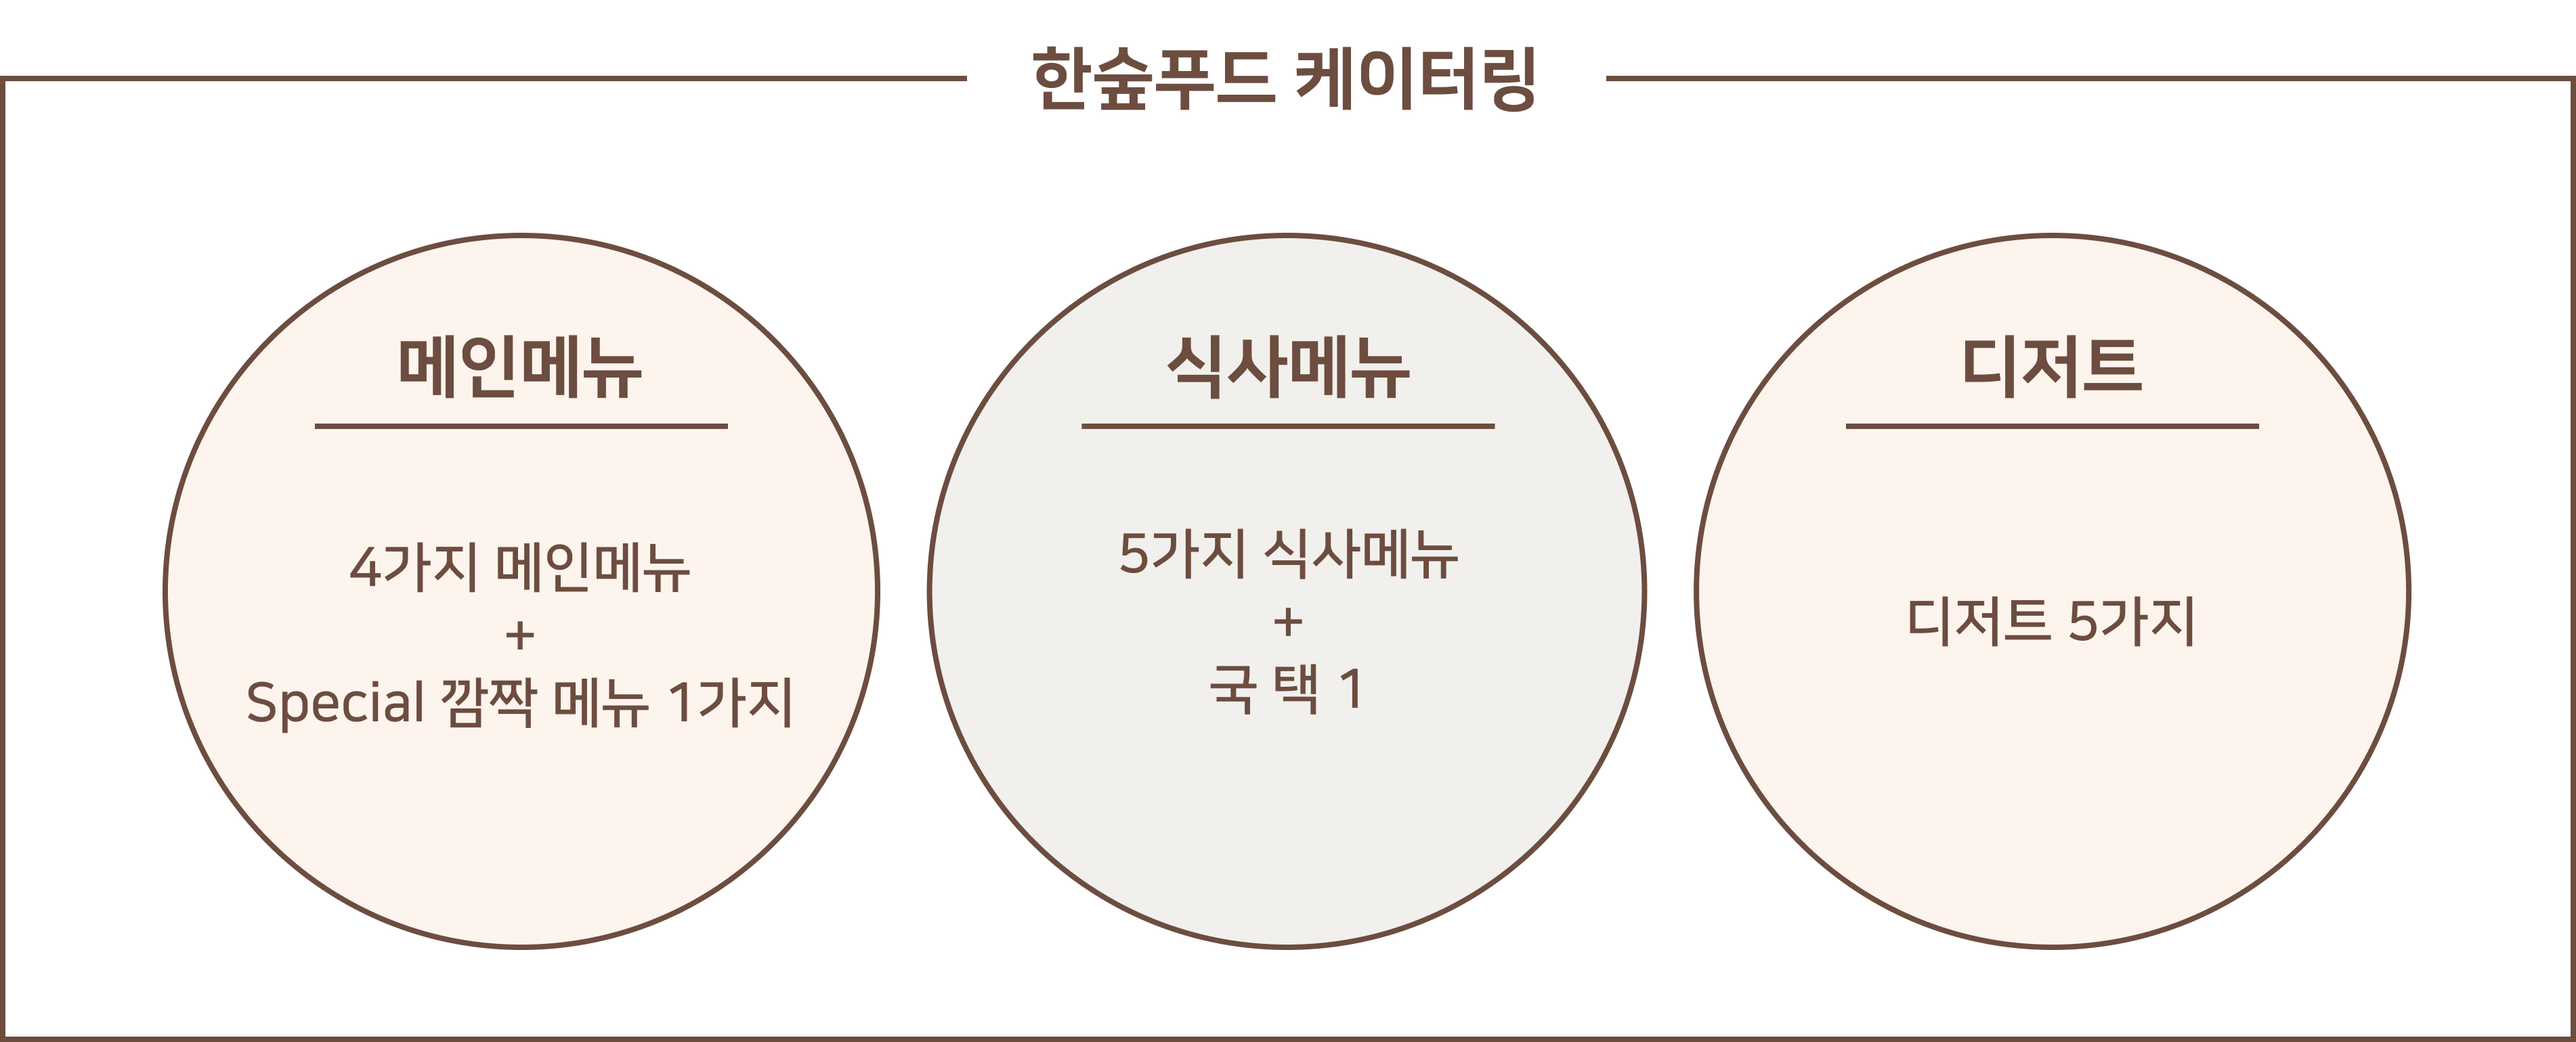
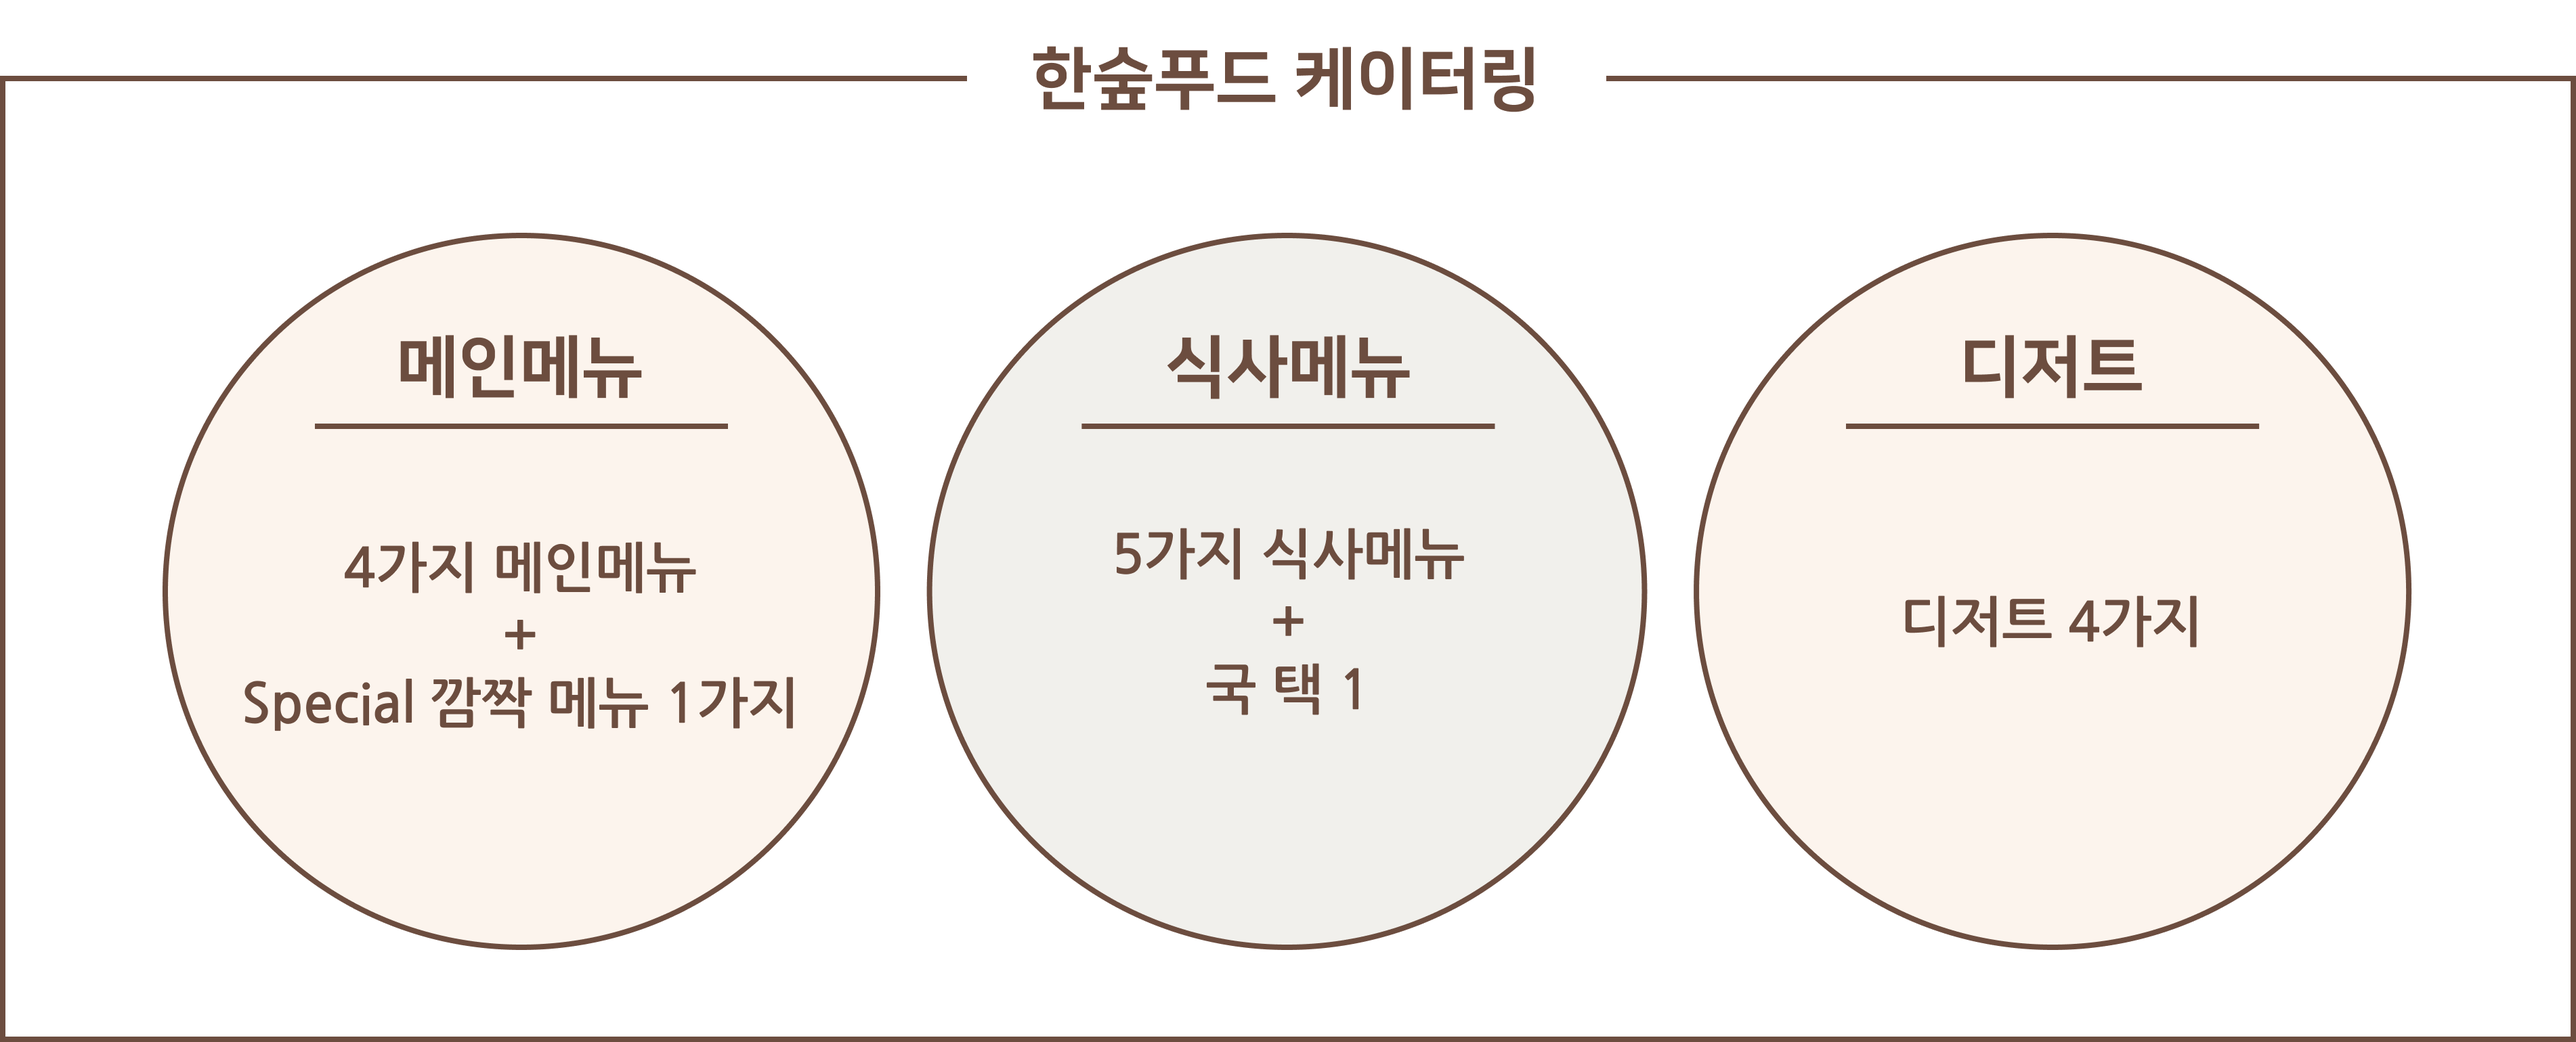
[UI] : 수화식당 메뉴 삭제 기능 적용

diff --git a/client/src/routes/order/catering/Menu.js b/client/src/routes/order/catering/Menu.js
@@ -1,14 +1,13 @@
-import React, { useState, useEffect, useRef } from "react";
-import PageLayout from "components/Layout/PageLayout";
-import ContentLayout from "components/Layout/ContentLayout";
-import CateringMenu from "image/order-catering-img1.png";
-import orderList from "routes/order/catering/data/orderList";
+import axios from "axios";
 import ImageLabel from "components/ImageLabel";
+import ContentLayout from "components/Layout/ContentLayout";
+import OrderListLayout from "components/Layout/OrderListLayout";
+import PageLayout from "components/Layout/PageLayout";
+import useTitle from "hooks/useTitle";
+import CateringMenu from "image/order-catering-img1.png";
 import CateringImg2 from "image/order-catering-img2.png";
 import CateringImg3 from "image/order-catering-img3.png";
-import OrderListLayout from "components/Layout/OrderListLayout";
-import axios from "axios";
-import useTitle from "hooks/useTitle";
+import React, { useEffect, useState } from "react";
 const Menu = () => {
   const updateTitle = useTitle("Loading...");
   setTimeout(
@@ -67,7 +66,7 @@ const Menu = () => {
       <ContentLayout subtitle={"메뉴 구성"}>
         <div id='main' class='flex flex-col'>
           <p class='text-hansupBrown text-lg mb-8 font-semibold'>
-            케이터링의 메뉴 구성은 메인메뉴 5개, 식사메뉴 5개, 디저트 5개로,
+            케이터링의 메뉴 구성은 메인메뉴 5개, 식사메뉴 6개, 디저트 4개로,
             달마다 구성이 조금씩 달라집니다.
           </p>
           <img

diff --git a/client/src/routes/business/Restaurant.js b/client/src/routes/business/Restaurant.js
@@ -1,17 +1,12 @@
-import FoodMenuBlock from "components/Block/FoodMenuBlock";
+import axios from "axios";
 import Description from "components/Description";
-import Subtitle from "components/Subtitle";
-import Example from "image/example.png";
-import Test from "image/test.png";
-import React, { useState, useEffect, useRef } from "react";
-import styled from "styled-components";
-import PageLayout from "components/Layout/PageLayout";
 import ContentLayout from "components/Layout/ContentLayout";
 import MenuListLayout from "components/Layout/MenuListLayout";
-import menuList from "routes/business/data/menuList";
-import OrderListLayout from "components/Layout/OrderListLayout";
-import axios from "axios";
+import PageLayout from "components/Layout/PageLayout";
 import useTitle from "hooks/useTitle";
+import Test from "image/test.png";
+import React, { useEffect, useState } from "react";
+import styled from "styled-components";
 const Label = styled.div`
   background-color: rgba(252, 244, 237, 1);
   color: #6c4d3f;
@@ -68,7 +63,7 @@ const Restaurant = () => {
         const tmpList = [];
         for (let one of typeList) {
           const cp = Response.data.filter(function (element, index) {
-            return element.type === one.type;
+            return element.type === one.type && !element.isDeleted;
           });
           tmpList.push({
             title: one.title,

diff --git a/client/src/components/Layout/MenuListLayout.js b/client/src/components/Layout/MenuListLayout.js
@@ -1,9 +1,7 @@
 import FoodMenuBlock from "components/Block/FoodMenuBlock";
 import ManageMenuBlock from "components/Block/ManageMenuBlock";
-import Example from "image/example.png";
 import React from "react";
 import styled from "styled-components";
-import Ready from "image/ready.png";
 
 const MenuTitle = styled.div`
   color: #6c4d3f;
@@ -17,8 +15,6 @@ const Line = styled.div`
   border-top: 1px solid #6c4d3f;
 `;
 const MenuListLayout = ({ info, col, type, use, updateMenu, deleteMenu }) => {
-  const colStyle = "grid-cols-" + col;
-  const readyBox = {};
   return info.menu.length !== 0 ? (
     <>
       <div class='mb-16'>
